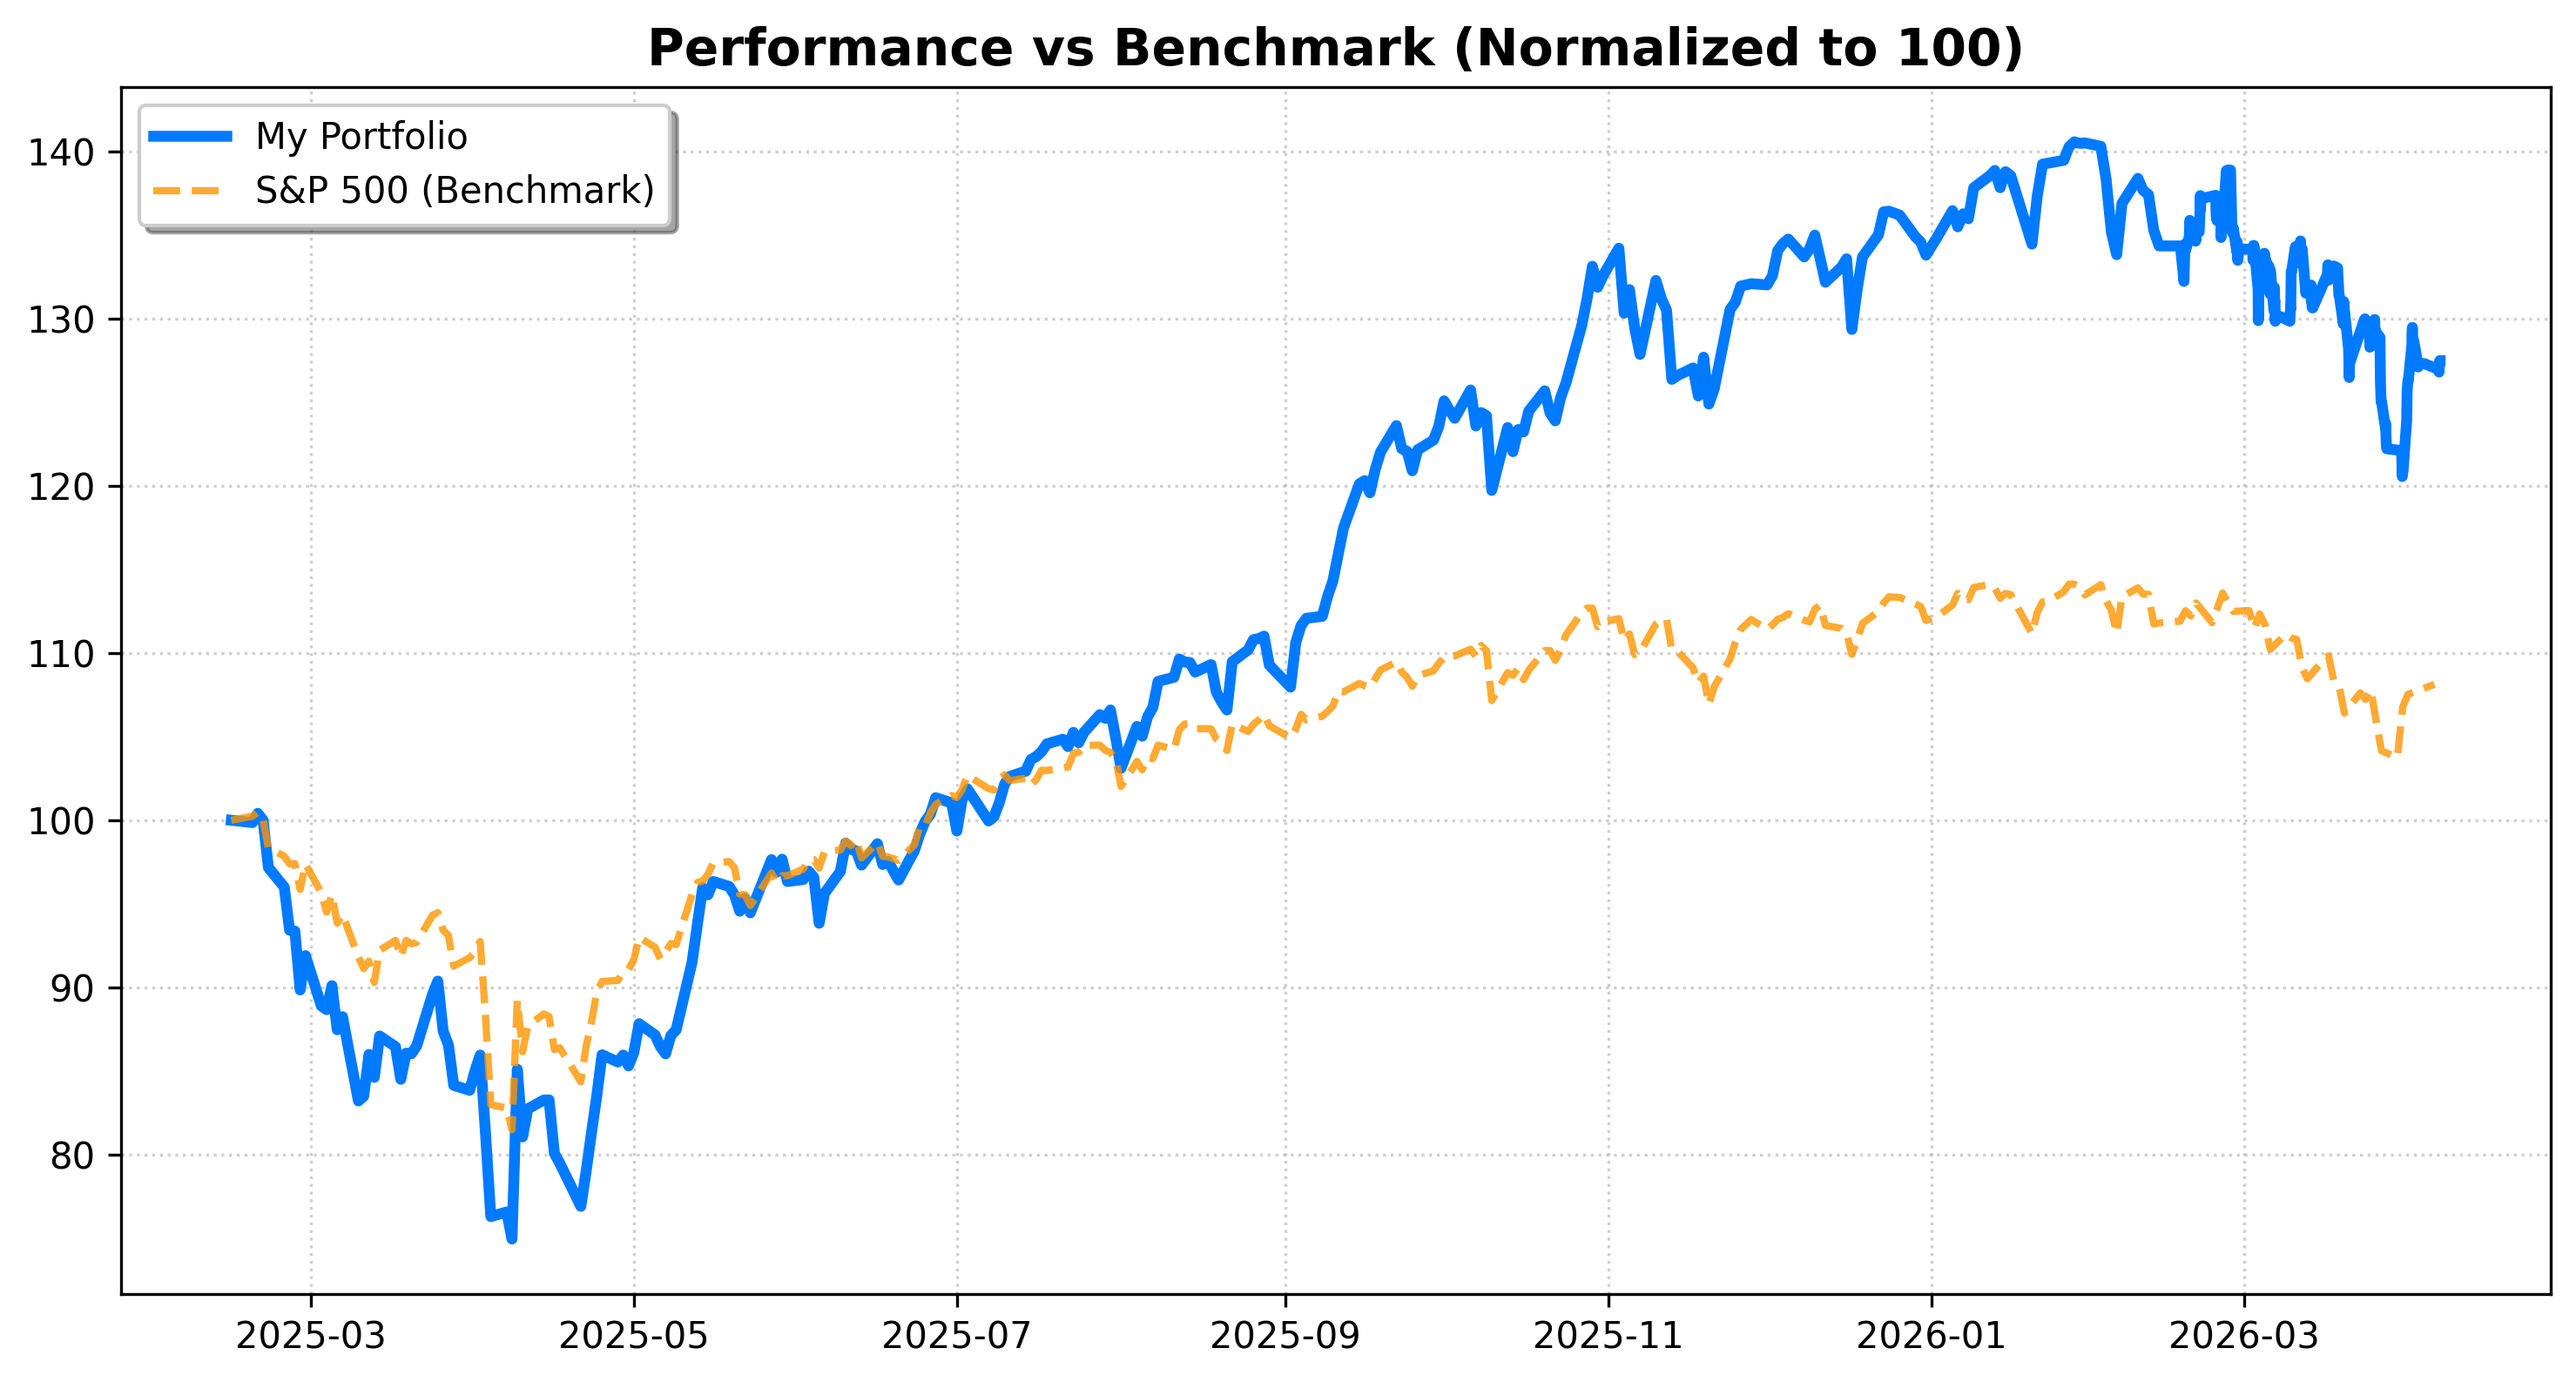
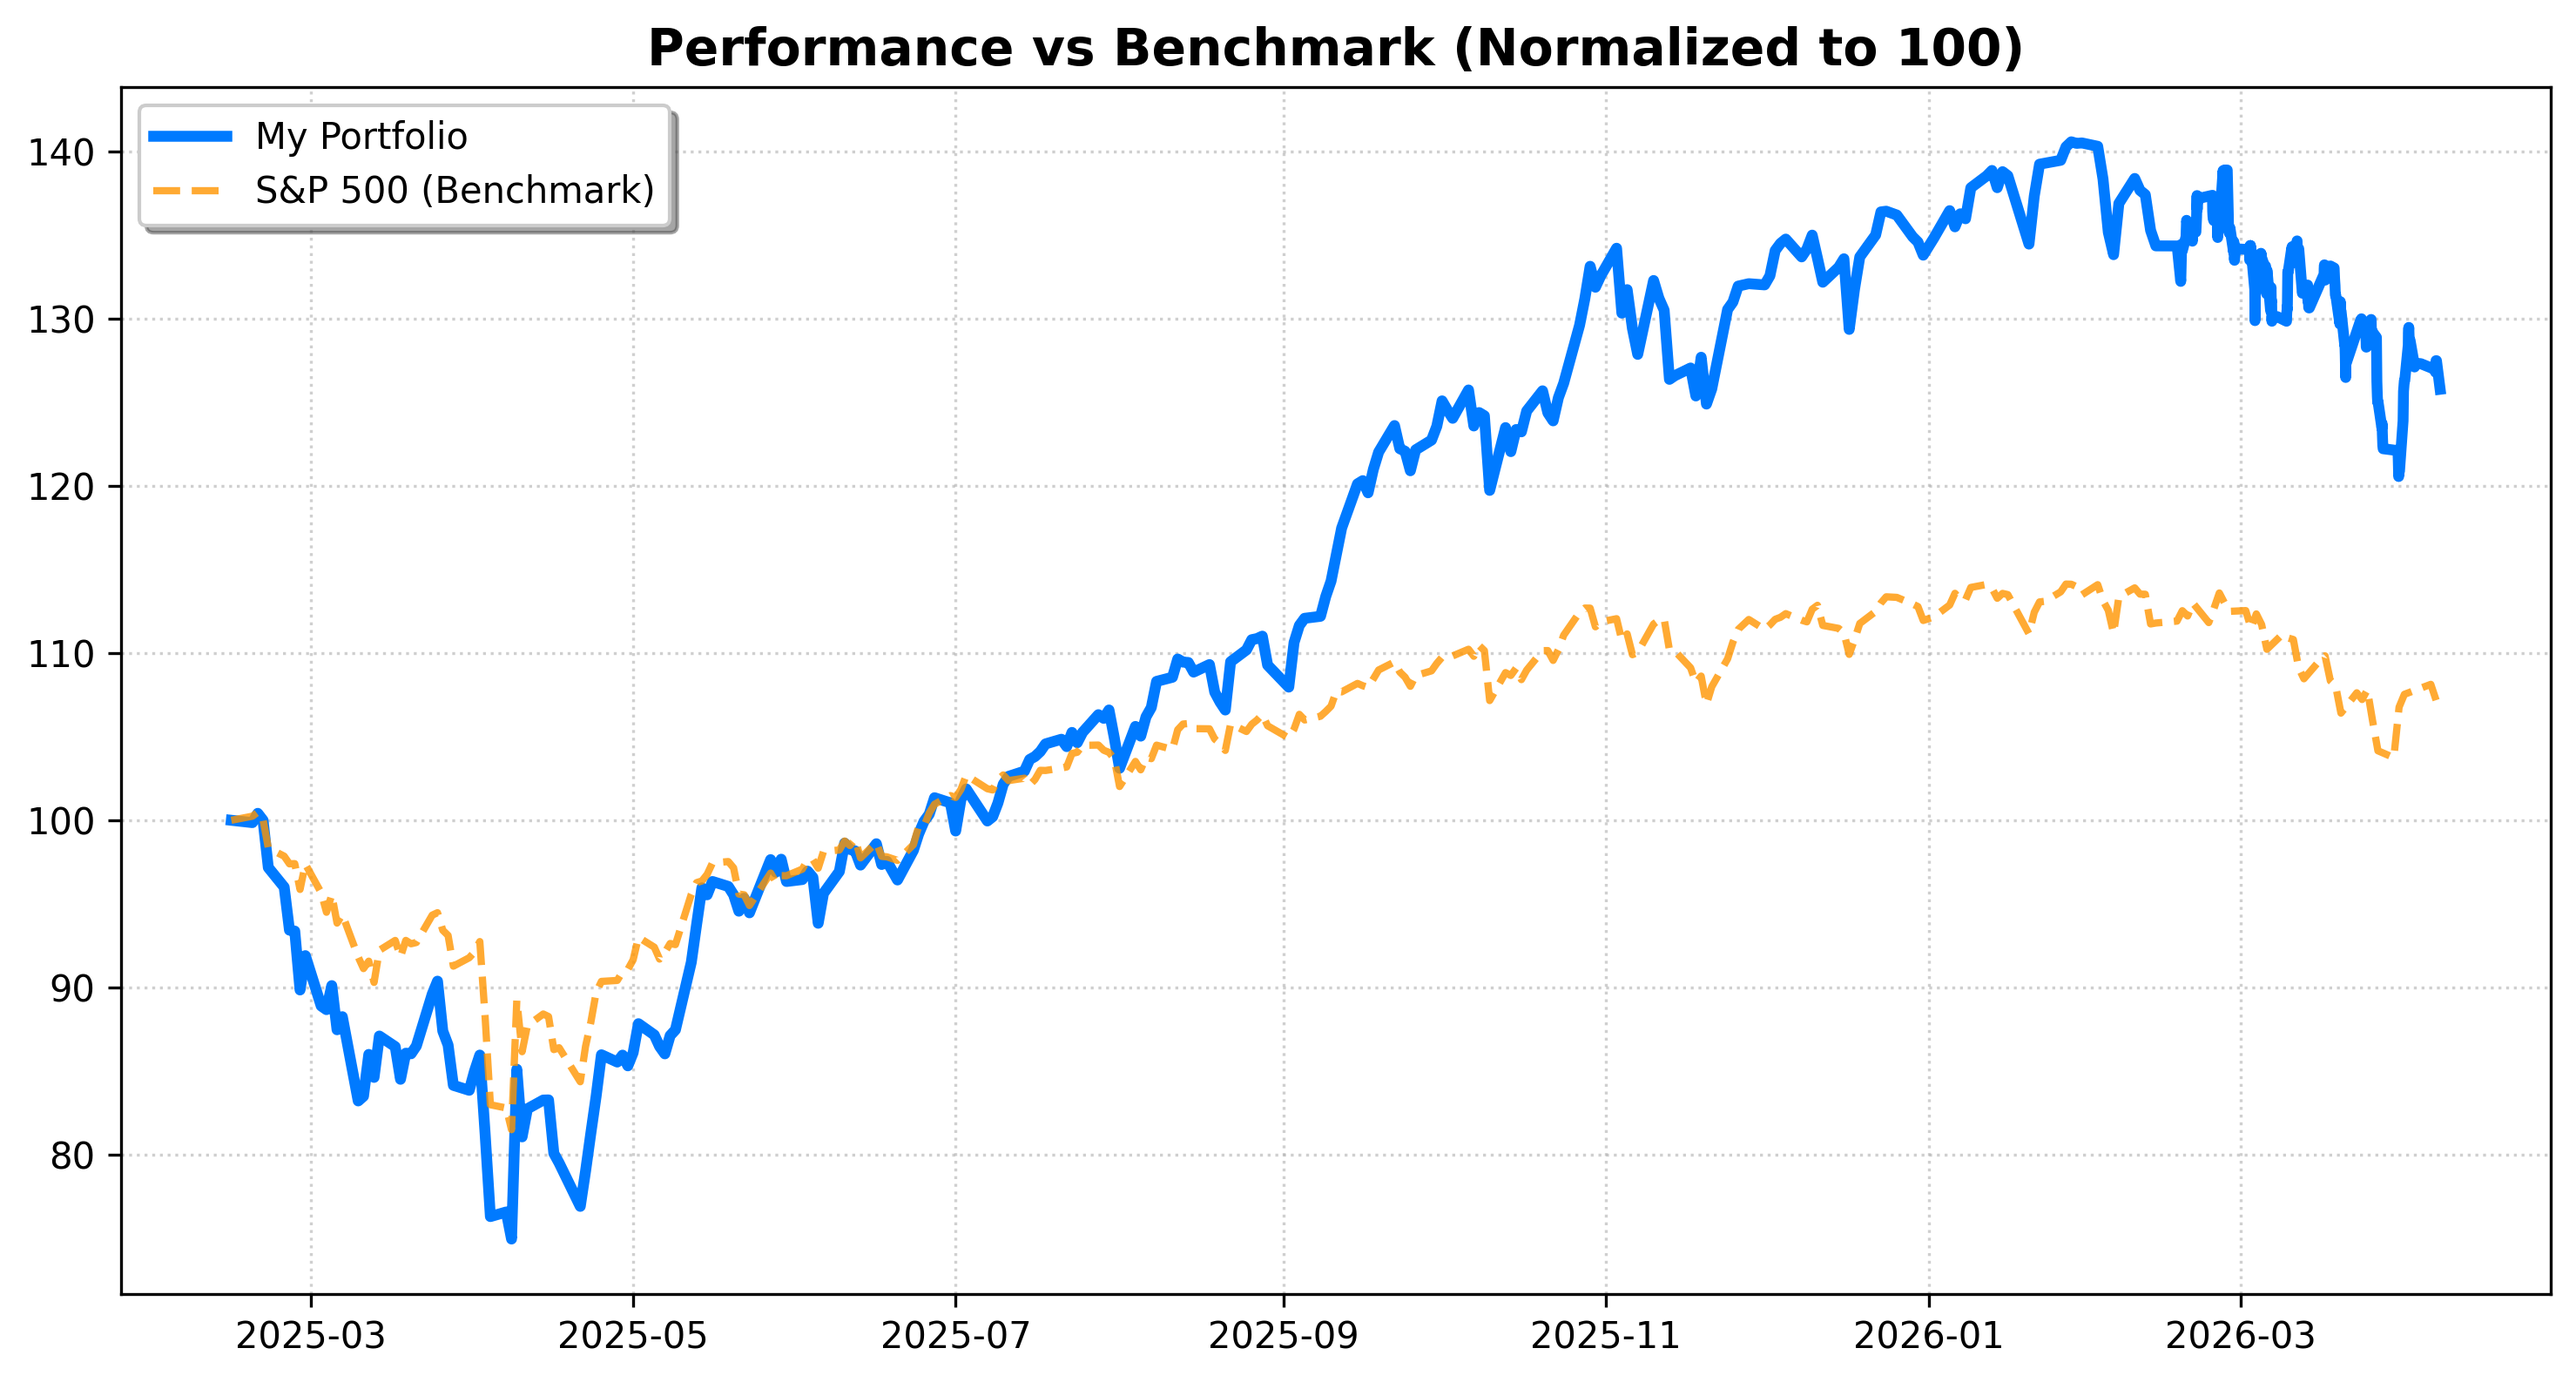
System Run: Analytics & Archive Update [skip ci]

diff --git a/README.md b/README.md
@@ -1,23 +1,23 @@
 # 📊 Portfolio Dashboard | מעקב תיק השקעות
-**Last Update:** 07/04/2026 01:42 | **USD/ILS:** ₪3.150
+**Last Update:** 07/04/2026 18:16 | **USD/ILS:** ₪3.146
 
 ## 💰 Portfolio Summary | סיכום התיק
 | Metric | Value | נתון |
 | :--- | :--- | :--- |
-| **Current Value** | `₪159,888` | **שווי נוכחי** |
-| **Total Invested** | `₪132,290` | **סך השקעה** |
-| **Total Profit/Loss** | `+20.86%` (₪27,599) | **רווח/הפסד כולל** |
-| **Daily Change** | `+0.14%` | **שינוי יומי** |
+| **Current Value** | `₪157,571` | **שווי נוכחי** |
+| **Total Invested** | `₪132,147` | **סך השקעה** |
+| **Total Profit/Loss** | `+19.24%` (₪25,424) | **רווח/הפסד כולל** |
+| **Daily Change** | `-0.94%` | **שינוי יומי** |
 
 ## 📜 Holdings | פירוט החזקות
 | Ticker | Shares | Avg. Cost | Current Price | P&L % | P&L ILS |
 | :--- | :--- | :--- | :--- | :--- | :--- |
-| GOOGL | 45 | $181.15 | $300.03 | 🟢 +65.63% | ₪16,850 |
-| ASML | 4 | $934.51 | $1,304.00 | 🟢 +39.54% | ₪4,655 |
-| XOM | 2 | $126.08 | $163.36 | 🟢 +29.57% | ₪235 |
-| NVDA | 57 | $148.62 | $177.64 | 🟢 +19.53% | ₪5,210 |
-| TSLA | 20 | $436.45 | $352.79 | 🔴 -19.17% | ₪-5,270 |
-| VOO | 24 | $527.38 | $605.67 | 🟢 +14.85% | ₪5,918 |
+| GOOGL | 45 | $181.15 | $300.20 | 🟢 +65.72% | ₪16,856 |
+| ASML | 4 | $934.51 | $1,279.47 | 🟢 +36.91% | ₪4,342 |
+| XOM | 2 | $126.08 | $164.97 | 🟢 +30.85% | ₪245 |
+| NVDA | 57 | $148.62 | $174.64 | 🟢 +17.51% | ₪4,667 |
+| TSLA | 20 | $436.45 | $338.57 | 🔴 -22.43% | ₪-6,159 |
+| VOO | 24 | $527.38 | $599.88 | 🟢 +13.75% | ₪5,475 |
 
 ## 📈 Charts | גרפים
 ![Performance](./data_hub/portfolio_performance.png)
